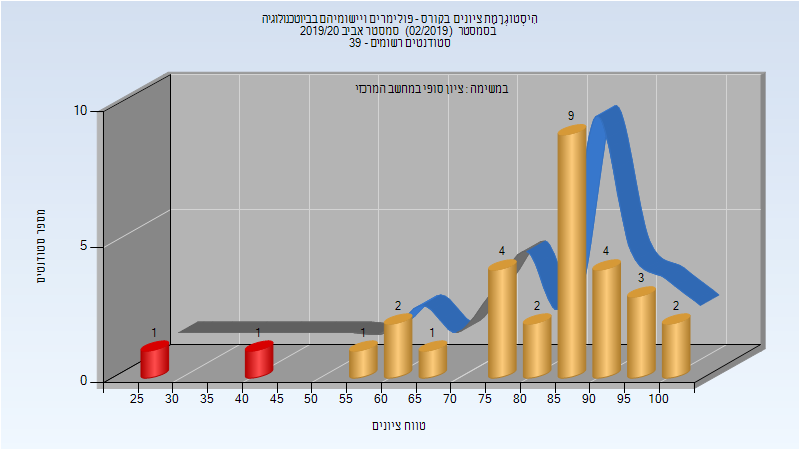
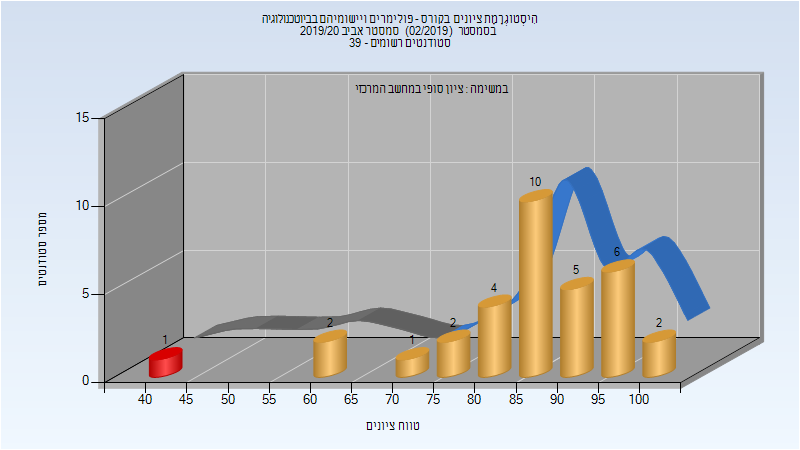
Deploy michael-maltsev/technion-histograms to github.com/michael-maltsev/technion-histograms.git:gh-pages

diff --git a/054413/index.html b/054413/index.html
@@ -201,13 +201,13 @@
 </thead>
 <tbody>
 <tr>
-<td>30</td>
-<td>28/2</td>
-<td>93</td>
-<td>28</td>
+<td>33</td>
+<td>32/1</td>
+<td>97</td>
+<td>41</td>
 <td>100</td>
-<td>81.067</td>
-<td>85.5</td>
+<td>85.758</td>
+<td>87</td>
 </tr>
 </tbody>
 </table>

diff --git a/054413/README.md b/054413/README.md
@@ -59,5 +59,5 @@
 
 | סטודנטים | עברו/נכשלו | אחוז עוברים | ציון מינימלי | ציון מקסימלי | ממוצע | חציון |
 | ---- | ---- | ---- | ---- | ---- | ---- | ---- |
-| 30 | 28/2 | 93 | 28 | 100 | 81.067 | 85.5 |
+| 33 | 32/1 | 97 | 41 | 100 | 85.758 | 87 |
 
